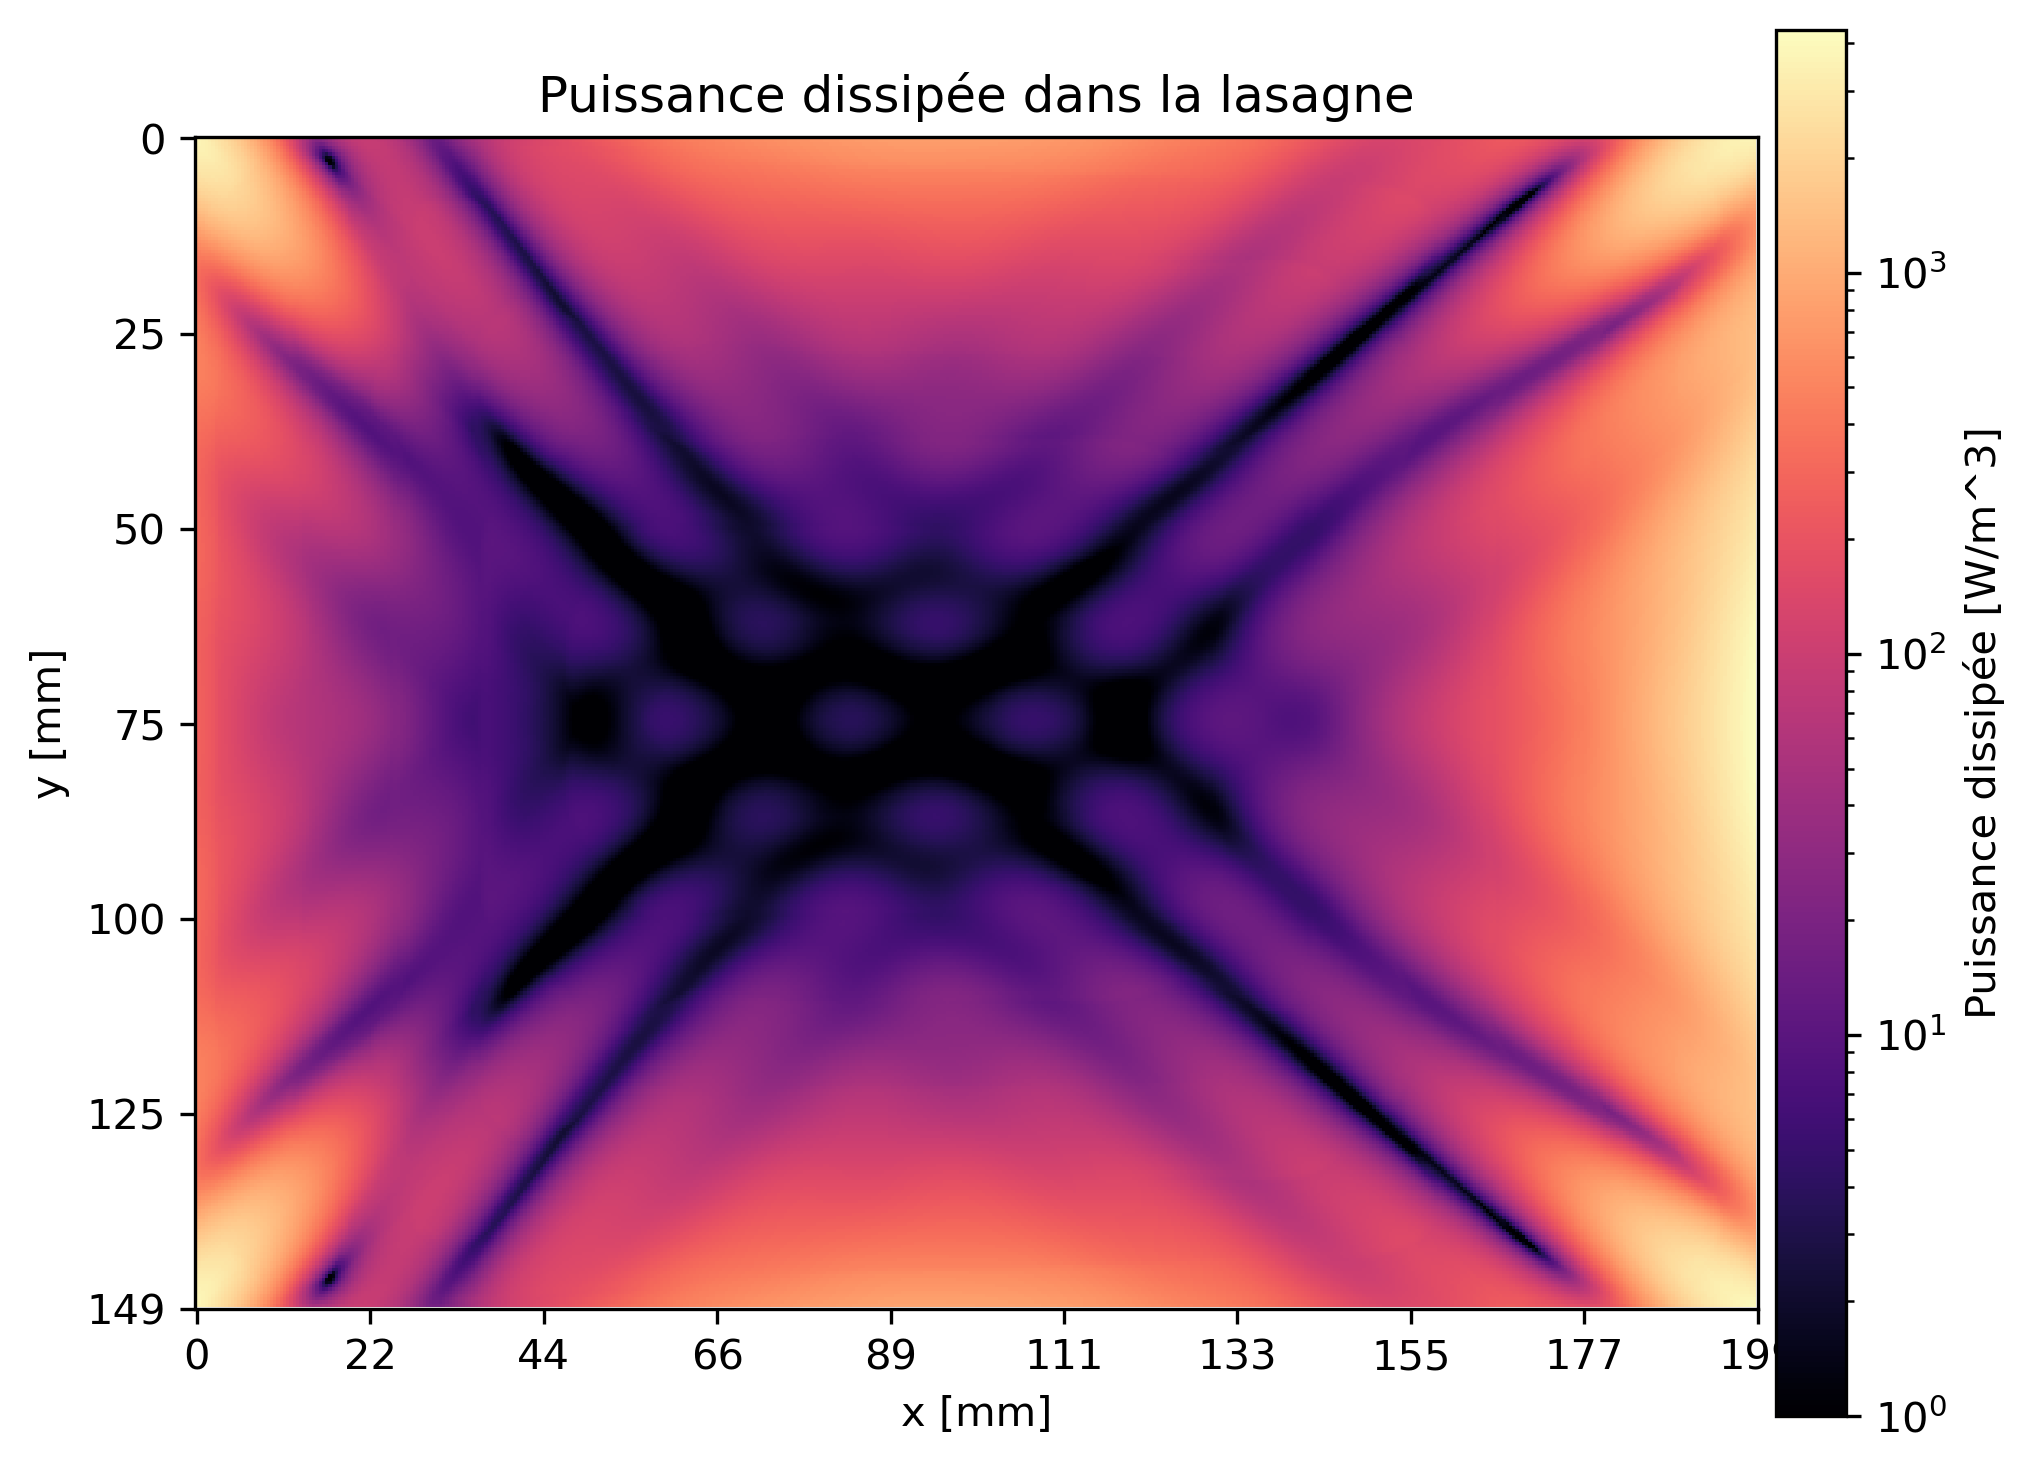
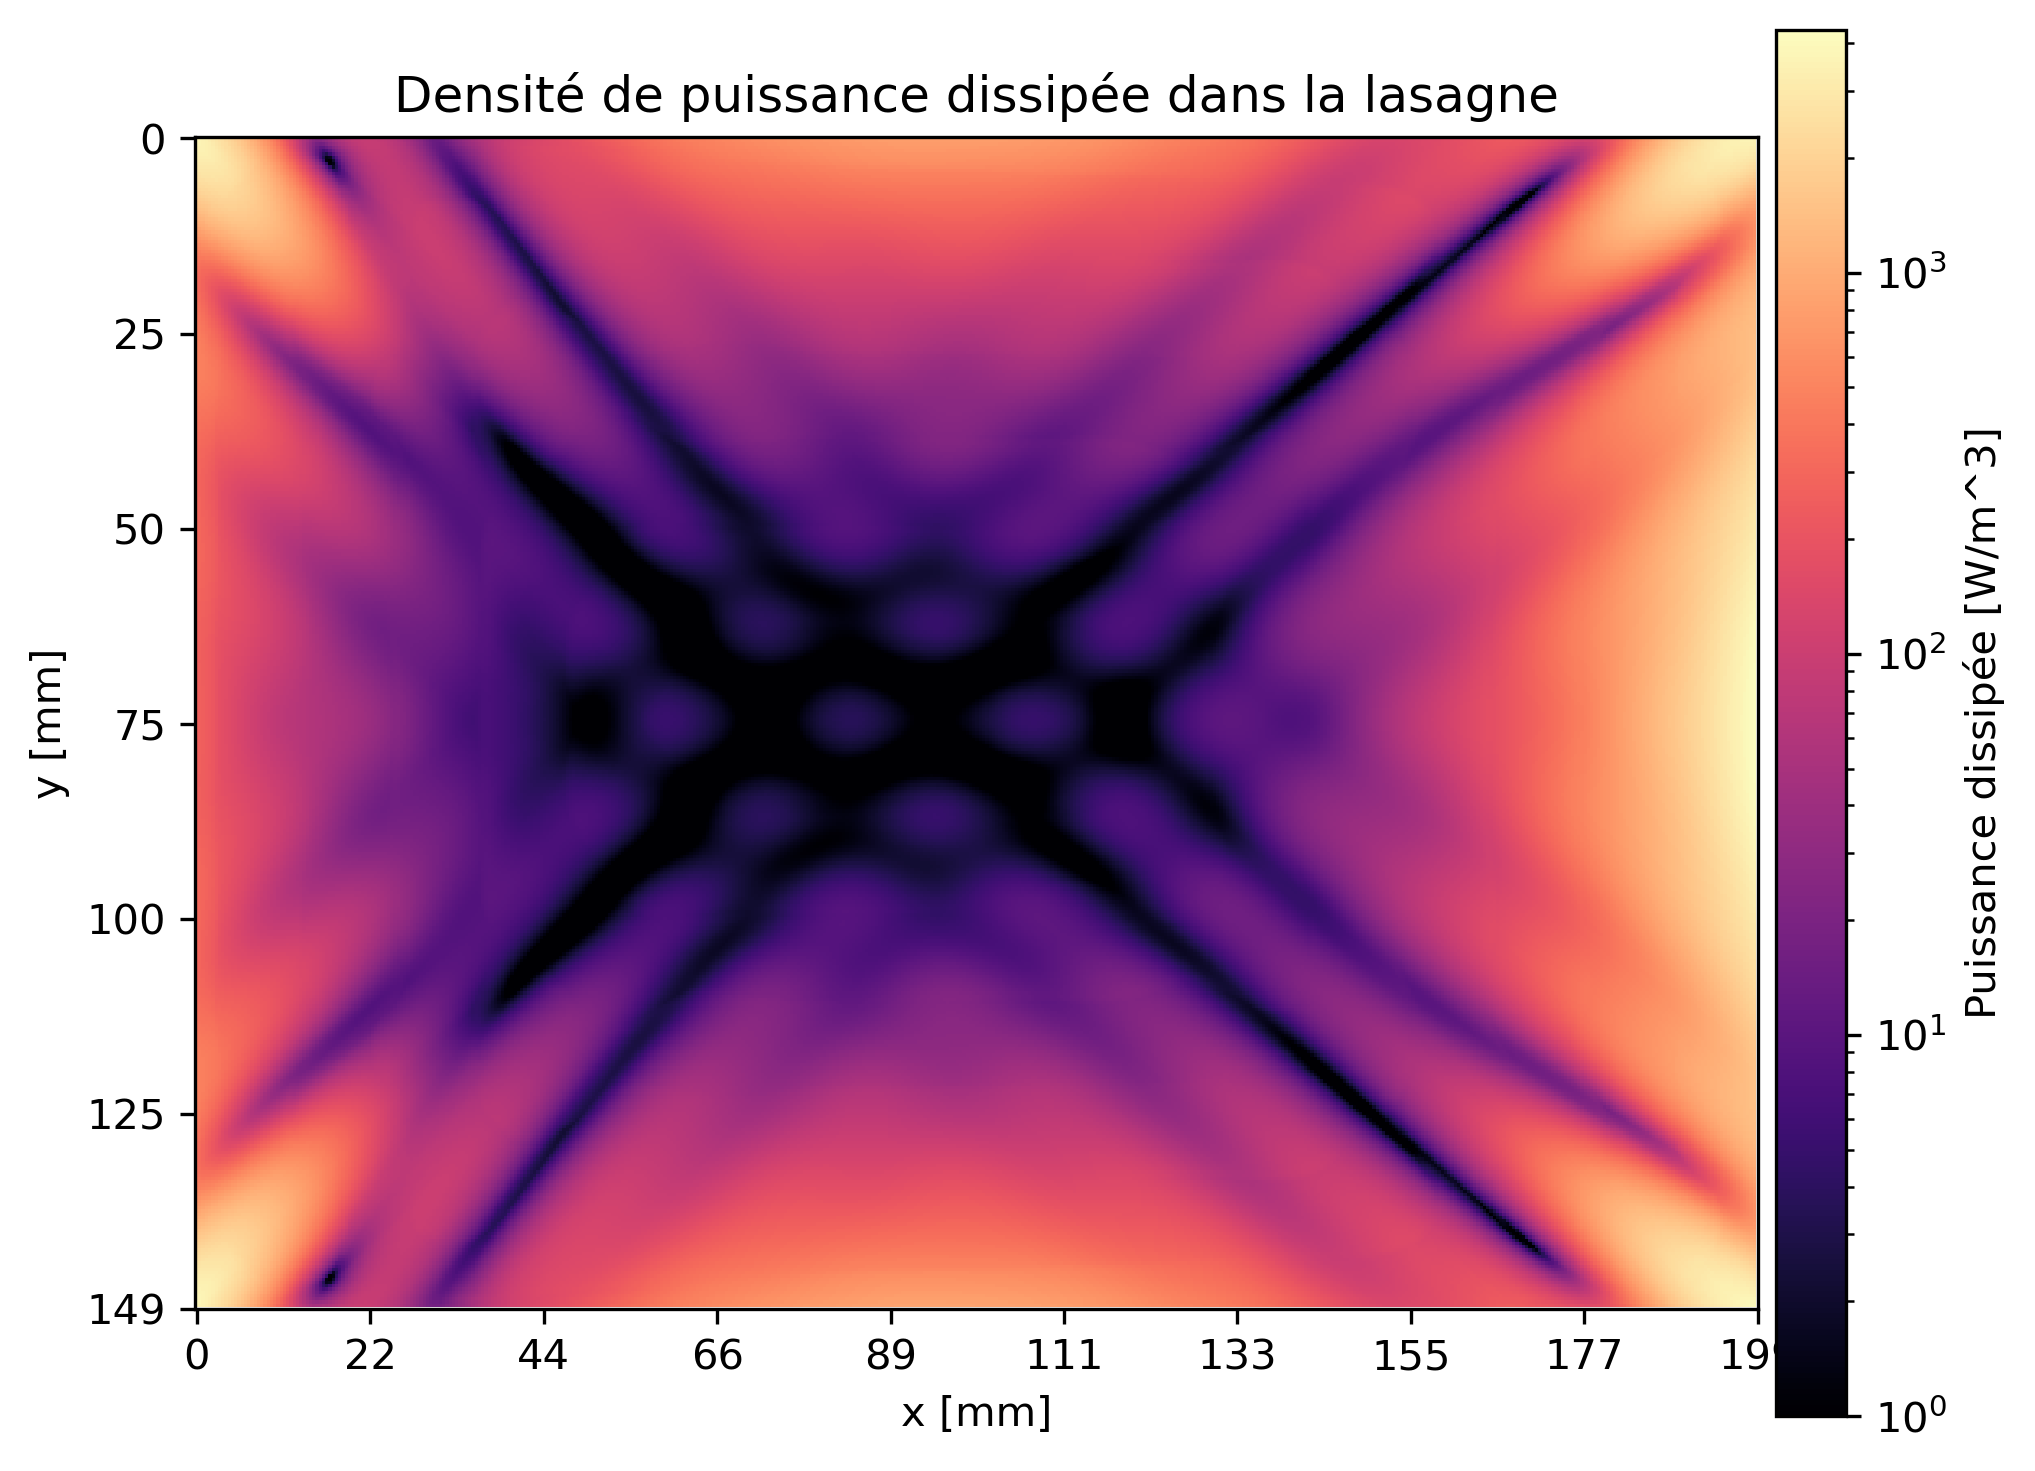
finished lasagna simulation

Changed region(s): [[0.1857, 0.0306, 0.774, 0.0918]]

diff --git a/2D/simu_chap_7_micro_wave_uniform_lasagna_amplitude_steady_state.py b/2D/simu_chap_7_micro_wave_uniform_lasagna_amplitude_steady_state.py
@@ -149,7 +149,7 @@ im2 = plot_field(
     min_color_value=MIN_COLOR_VALUE,
     color_bar_label="Puissance dissipée [W/m^3]",
 )
-ax3.set_title("Puissance dissipée dans la lasagne")
+ax3.set_title("Densité de puissance dissipée dans la lasagne")
 
 fig2.savefig(
     "images/microwave_lasagna_power_density.png", bbox_inches="tight", dpi=300
